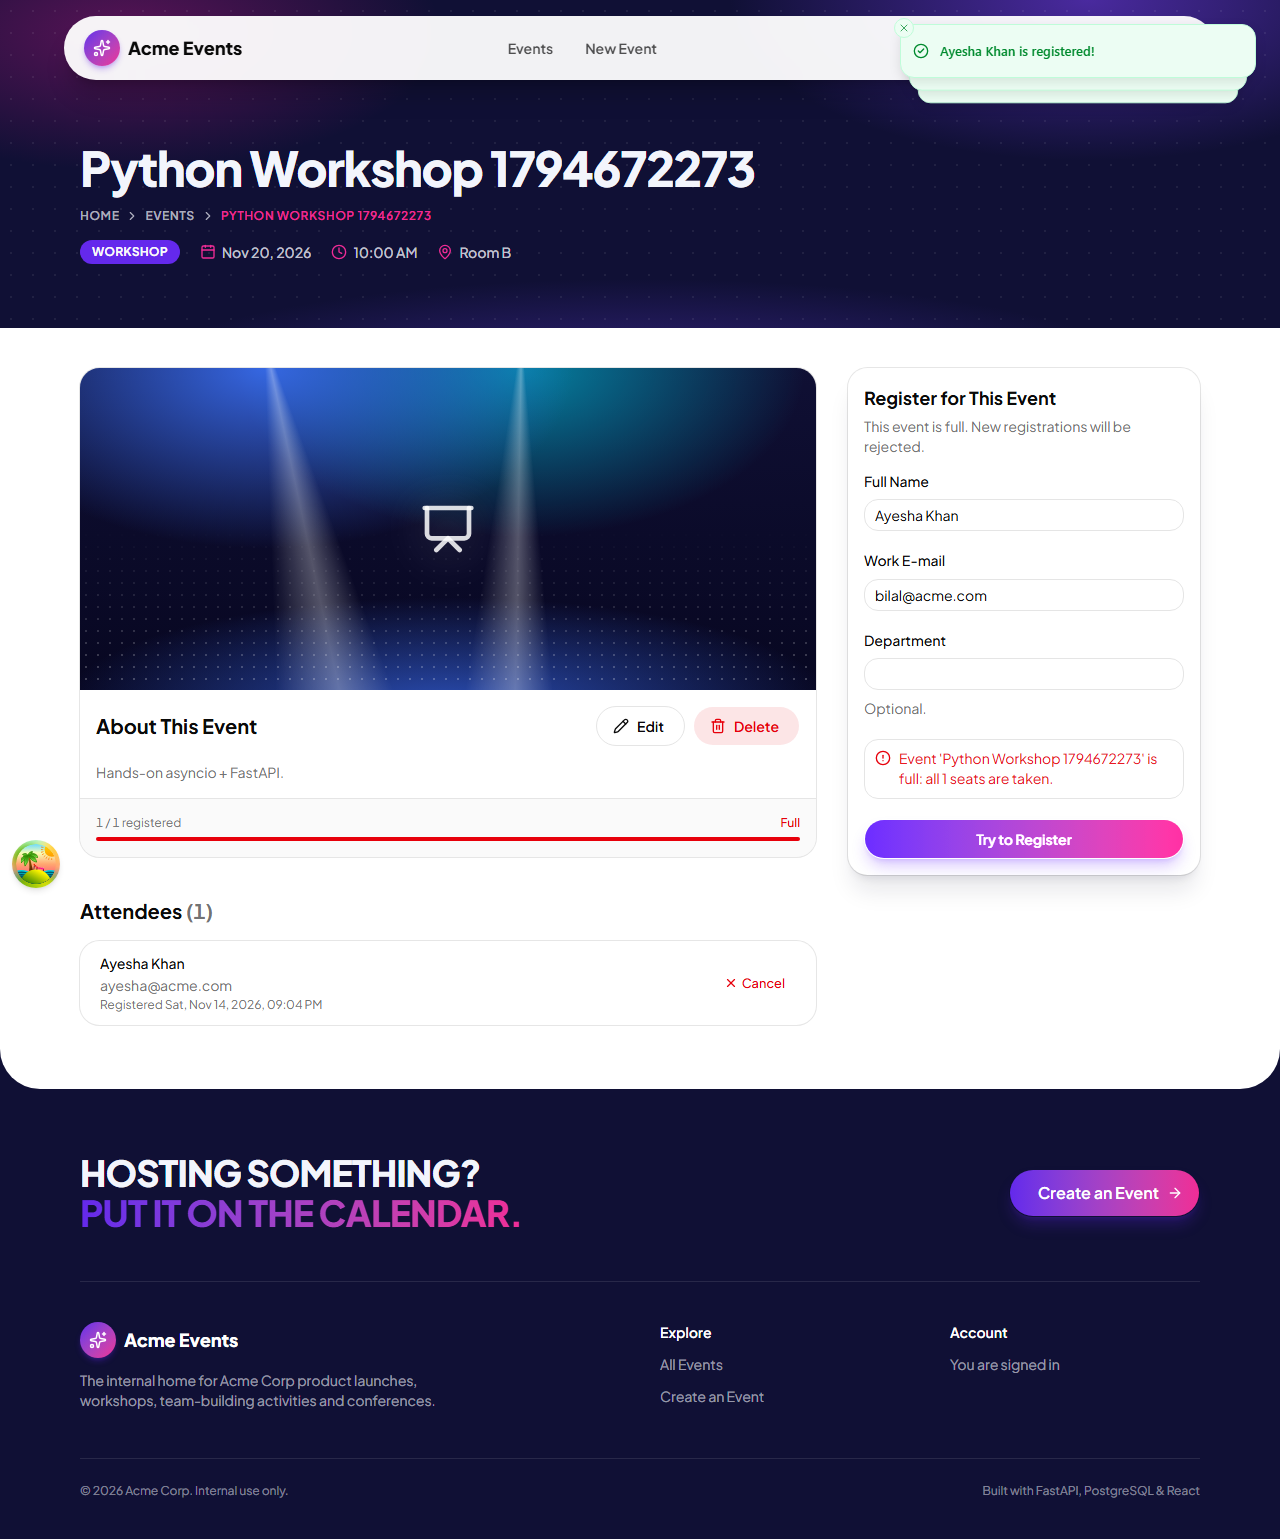
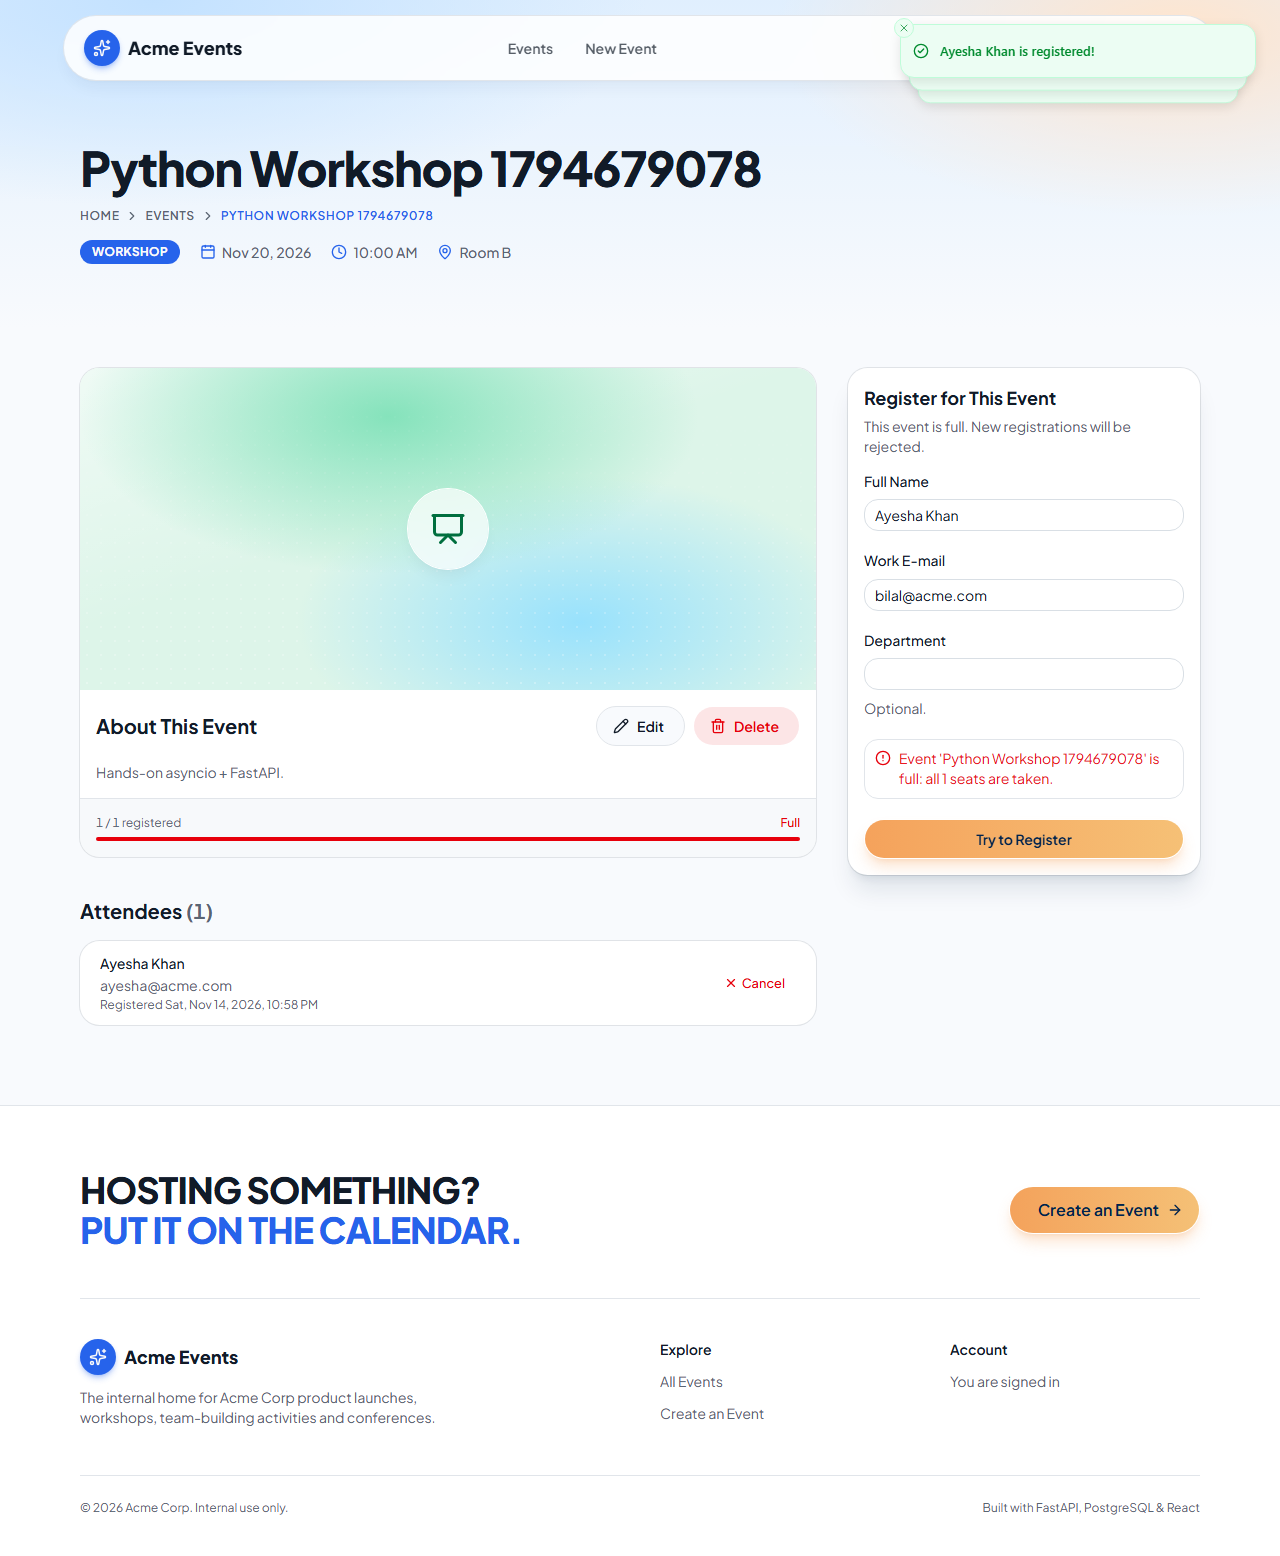
Sync docs with the UI work
List every follow-up prompt in the AI usage docs (the brief asks for a complete list), mention the agent skills used, add PRs #12-#18 to the README Git workflow table, embed the current events page screenshot, and replace the frontend E2E screenshots that still showed the old navy design.

diff --git a/docs/ai-usage/README.md b/docs/ai-usage/README.md
@@ -16,7 +16,8 @@ AI usage policy asks for.
 
 - Default Claude Code settings. Plan mode was used for the first step, so the plan could be reviewed before any code was written.
 - The assistant could use the shell (git, `gh`, Docker, Python, npm) on my machine.
-- No custom system prompts, fine-tuning or extra plugins were used for the code.
+- No custom system prompts or fine-tuning. For the frontend UI work, these agent skills were installed:
+  `find-skills`, `web-design-guidelines` (Vercel) and `shadcn`. They provide design and component guidance only.
 
 ## Prompts
 
@@ -34,6 +35,41 @@ AI usage policy asks for.
    - Repository name → `acme-event-management` (public, `main` as the stable branch)
    - Frontend stack → React + Vite + TypeScript, TanStack Query + Zustand
    - Merge strategy → one GitHub pull request per feature branch
+
+4. **Follow-up prompts** after the backend, frontend, Docker and CI were finished, in order
+   (my wording, typos kept):
+   1. > give me the commands to run it
+   2. > /find-skills for UI improvements
+
+      The assistant suggested two design skills (`web-design-guidelines`, `shadcn`).
+   3. > yes
+
+      This installed them, audited the frontend against the Web Interface Guidelines and moved
+      it to shadcn/ui (PR #12).
+   4. > make something like this design wise
+
+      I attached a screenshot of an event-website template. The assistant adapted its layout
+      without copying its branding or images (PR #13).
+   5. > Change the color scheme of the website. Suggest me color schemes. you can check the
+      > websites of this niche online and then tell me
+
+      The assistant researched event-site colour guidance (Cvent, Toptal, Event Planner Expo) and
+      offered four palettes. I picked **Indigo & Apricot** (PR #14).
+   6. > remove this purple color use some bright color from references
+
+      Indigo was replaced with bright blue, keeping the apricot buttons (PR #15).
+   7. > I want it to be light. Check reference websites like these and then tell me
+
+      The assistant screenshotted Luma, Eventbrite, Meetup, Bizzabo, Eventzilla and Partiful and
+      offered three light styles. I picked **Soft wash, like Luma** (PR #16).
+   8. > improve this calendar too
+
+      I attached a screenshot of the browser's native date popup. It was replaced with a styled
+      shadcn calendar (PR #17).
+   9. > does everything aligns with the documents?
+
+      The assistant re-checked the brief and rubric against the repo. It updated this prompt
+      list, the README's Git workflow table and the outdated frontend screenshots (PR #18).
 
 ## Chat history
 

diff --git a/README.md b/README.md
@@ -276,6 +276,13 @@ and merged through a pull request once CI passed:
 | #9 | `feature/docker-production` | Docker, nginx, gunicorn |
 | #10 | `feature/ci` | GitHub Actions |
 | #11 | `docs/readme-and-submission` | README, screenshots, AI docs |
+| #12 | `feature/ui-polish` | shadcn/ui components, dark mode, accessibility fixes |
+| #13 | `feature/event-theme-redesign` | event-site layout: hero, pill nav, image cards |
+| #14 | `feature/indigo-apricot-theme` | first colour scheme (indigo + apricot) |
+| #15 | `feature/bright-blue-theme` | purple replaced with bright blue |
+| #16 | `feature/light-soft-wash` | light "soft wash" design |
+| #17 | `feature/date-picker` | styled calendar date picker |
+| #18 | `docs/sync-after-ui-work` | docs and screenshots brought up to date |
 
 ---
 
@@ -290,6 +297,8 @@ Swagger UI with live requests and responses for **every endpoint**, both success
 | ![Filter + pagination](docs/screenshots/swagger/13-events-list-paginated-filtered-200.png) | ![Validation 422](docs/screenshots/swagger/10-events-create-invalid-422.png) |
 
 Frontend: [docs/screenshots/frontend](docs/screenshots/frontend)
+
+![Frontend: events page](docs/screenshots/frontend/home-light.png)
 
 ![Frontend: duplicate registration](docs/screenshots/frontend/03-duplicate-409.png)
 
